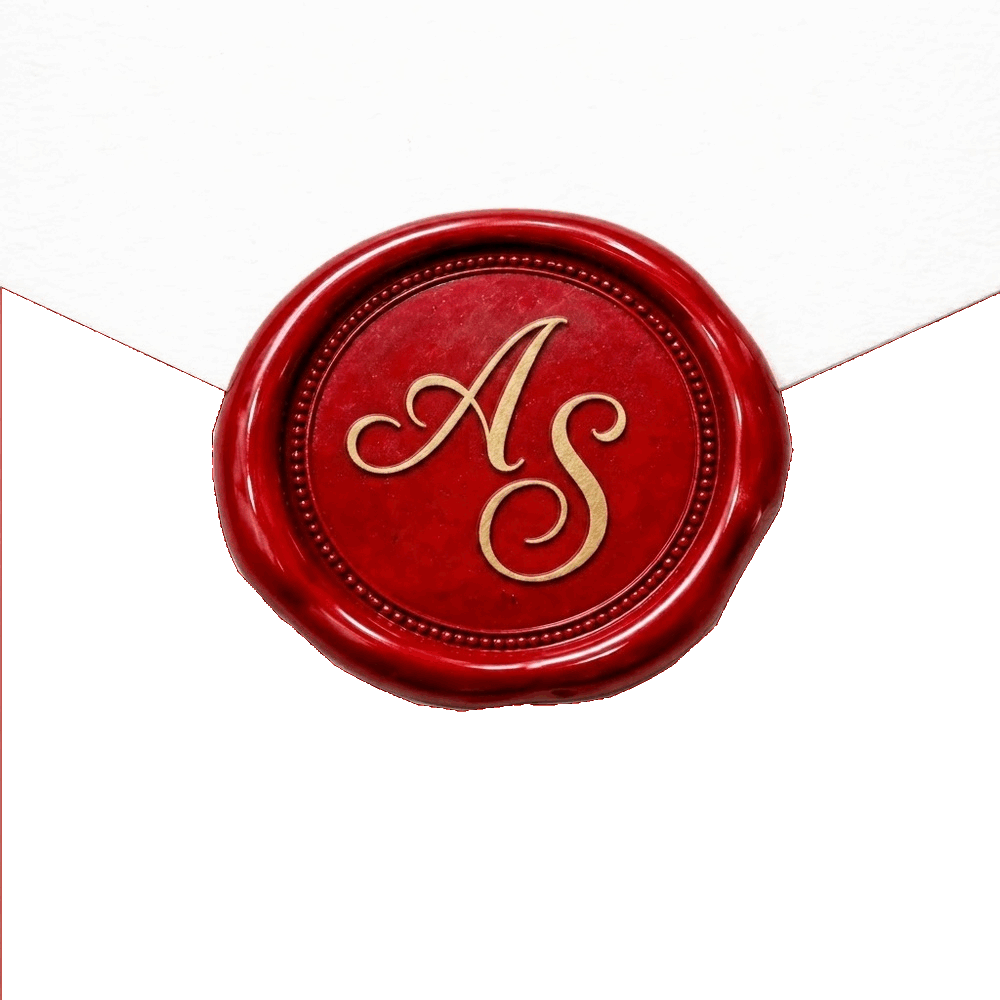
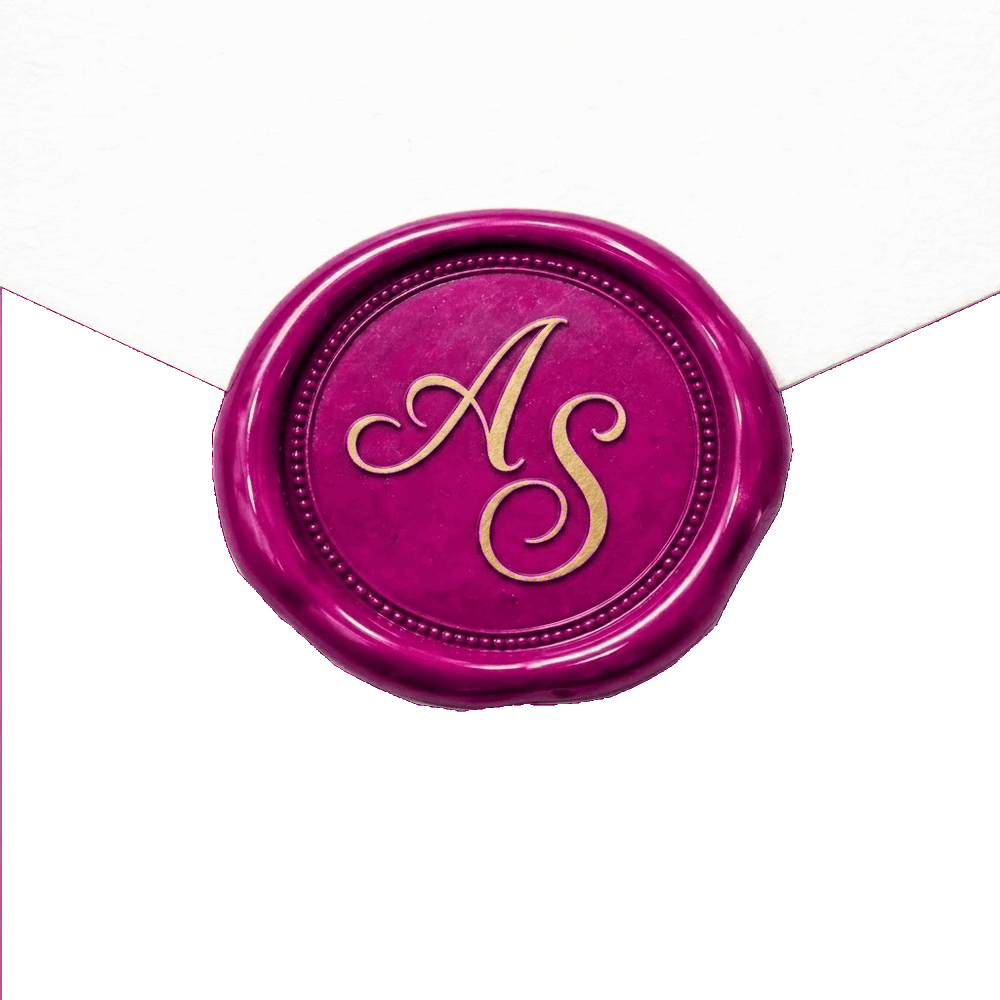
changed image

Changed region(s): [[0.186, 0.186, 0.806, 0.713]]

diff --git a/src/Components/Header.jsx b/src/Components/Header.jsx
@@ -102,8 +102,8 @@ function Header() {
 
               textAlign: "center",
               whiteSpace: "pre-line",
-              fontFamily: fontToggle ? "Great Vibes, cursive" : "Grenze, serif",
-              fontSize: fontToggle ? "36px" : "24px",
+              fontFamily: fontToggle ? "Grenze, serif" : "Grenze, serif",
+              fontSize: fontToggle ? "24px" : "24px",
               mb: 2,
             }}
           >